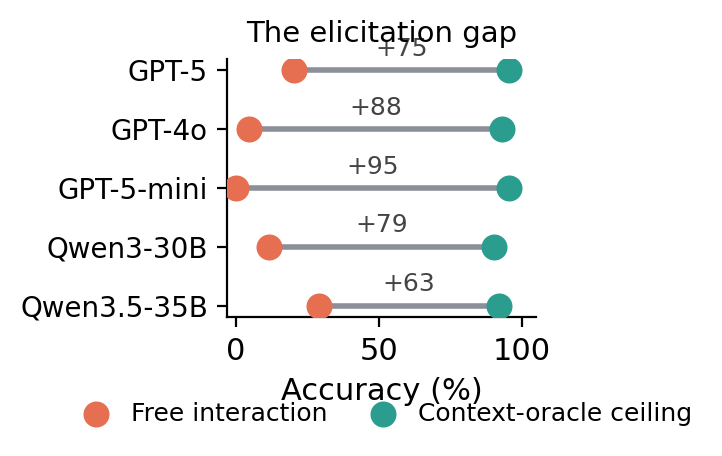
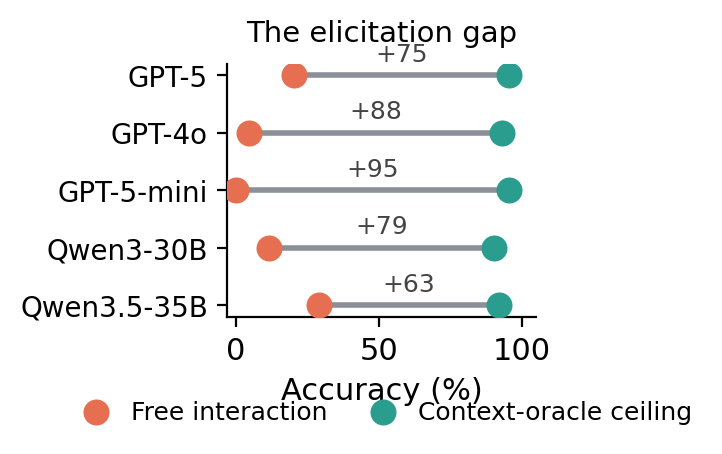
fig_bottleneck: raise title ~2pt (titlepad 6->8)

diff --git a/scripts/plot_findings.py b/scripts/plot_findings.py
@@ -36,7 +36,7 @@ def fig_bottleneck(out):
     ax.set_yticklabels(models, fontsize=10)
     ax.set_xlim(-3, 105)
     ax.set_xlabel("Accuracy (\\%)".replace("\\%", "%"))
-    ax.set_title("The elicitation gap", fontsize=10.5)
+    ax.set_title("The elicitation gap", fontsize=10.5, pad=8.0)
     ax.legend(loc="upper center", bbox_to_anchor=(0.5, -0.24), ncol=2,
               fontsize=9, frameon=False, handletextpad=0.4, columnspacing=1.2)
     fig.tight_layout(); fig.savefig(out, dpi=200, bbox_inches="tight"); fig.savefig(str(out).replace(".png", ".pdf"), bbox_inches="tight"); print("wrote", out)
